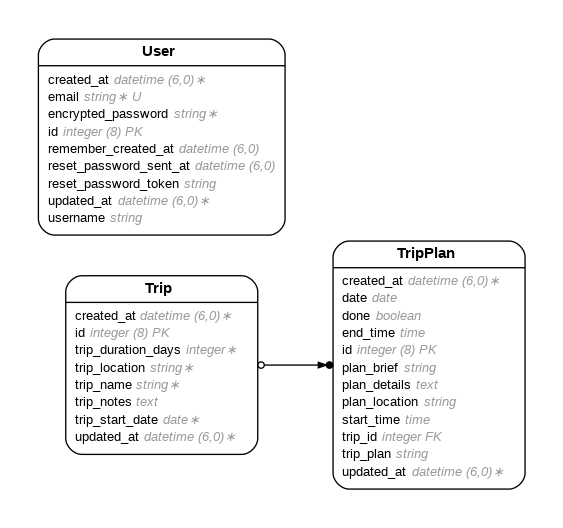
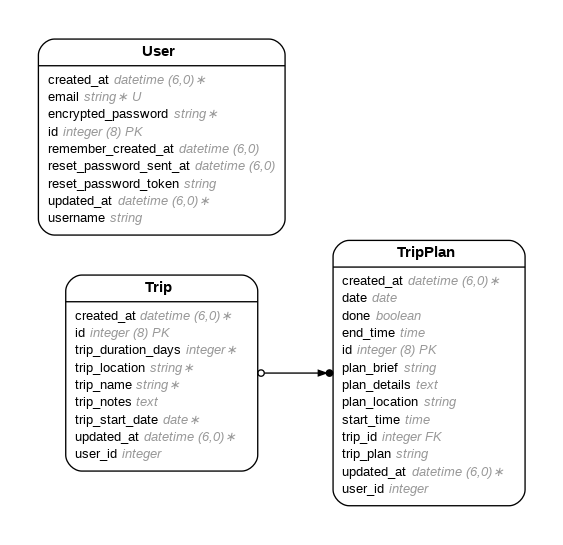
finish

Changed region(s): [[0.0604, 0.0606, 0.5133, 0.4545], [0.4529, 0.4242, 0.9361, 0.9394], [0.0906, 0.4848, 0.4831, 0.8788]]

diff --git a/app/controllers/trips_controller.rb b/app/controllers/trips_controller.rb
@@ -18,18 +18,25 @@ class TripsController < ApplicationController
   # end
 
   def index
-    matching_trips = Trip.all
+    matching_trips = current_user.trips
     @list_of_trips = matching_trips.order({ :created_at => :desc })
 
     render({ :template => "trip_templates/index" })
   end
 
+
+
   def show
     the_id = params.fetch("path_id")
-    matching_trips = Trip.where({ :id => the_id })
+    matching_trips = current_user.trips.where({ :id => the_id })
     @the_trip = matching_trips.at(0)
+    # if @the_trip == nil
+    #   redirect_to("/", { :alert => "Not found" })
+    #   return
+    # end
     render({ :template => "trip_templates/show" })
   end
+
 
   def trip_name_update
     the_id = params.fetch("path_id")
@@ -192,6 +199,7 @@ class TripsController < ApplicationController
 
   def create
     the_trip = Trip.new
+    the_trip.user_id = current_user.id
     the_trip.trip_name = params.fetch("query_trip_name")
     the_trip.trip_location = params.fetch("query_trip_location")
     the_trip.trip_duration_days = params.fetch("query_trip_duration_days")
@@ -296,6 +304,7 @@ class TripsController < ApplicationController
               end_time: Time.parse(item[:end_time]),
               trip_plan: item[:activity],
               plan_brief: item[:plan_brief],
+              user_id:the_trip.user_id,
               plan_location: item[:location],
               plan_details: item[:commute],
             )

diff --git a/config/environments/development.rb b/config/environments/development.rb
@@ -42,13 +42,18 @@ Rails.application.configure do
   config.active_storage.service = :local
 
   # Don't care if the mailer can't send.
-  config.action_mailer.raise_delivery_errors = false
+  # config.action_mailer.raise_delivery_errors = false
 
   # Make template changes take effect immediately.
-  config.action_mailer.perform_caching = false
+  # config.action_mailer.perform_caching = false
 
   # Set localhost to be used by links generated in mailer templates.
-  config.action_mailer.default_url_options = { host: "localhost", port: 3000 }
+  # config.action_mailer.default_url_options = { host: "localhost", port: 3000 }
+
+  config.action_mailer.perform_deliveries = true
+  config.action_mailer.raise_delivery_errors = true
+  config.action_mailer.perform_caching = false
+  config.action_mailer.default_url_options = { host: "localhost", port: 3000}
 
   # Print deprecation notices to the Rails logger.
   config.active_support.deprecation = :log

diff --git a/db/schema.rb b/db/schema.rb
@@ -10,7 +10,7 @@
 #
 # It's strongly recommended that you check this file into your version control system.
 
-ActiveRecord::Schema[8.0].define(version: 2025_12_12_034335) do
+ActiveRecord::Schema[8.0].define(version: 2025_12_12_043940) do
   # These are extensions that must be enabled in order to support this database
   enable_extension "pg_catalog.plpgsql"
 
@@ -168,6 +168,7 @@ ActiveRecord::Schema[8.0].define(version: 2025_12_12_034335) do
     t.datetime "updated_at", null: false
     t.string "plan_brief"
     t.boolean "done"
+    t.integer "user_id"
   end
 
   create_table "trips", force: :cascade do |t|
@@ -178,6 +179,7 @@ ActiveRecord::Schema[8.0].define(version: 2025_12_12_034335) do
     t.datetime "created_at", null: false
     t.datetime "updated_at", null: false
     t.text "trip_notes"
+    t.integer "user_id"
   end
 
   create_table "users", force: :cascade do |t|

diff --git a/app/models/trip.rb b/app/models/trip.rb
@@ -10,9 +10,11 @@
 #  trip_start_date    :date
 #  created_at         :datetime         not null
 #  updated_at         :datetime         not null
+#  user_id            :integer
 #
 class Trip < ApplicationRecord
   has_many  :trip_plans, class_name: "TripPlan", foreign_key: "trip_id", dependent: :destroy
+  belongs_to :user, required: true, class_name: "User", foreign_key: "user_id"
 
 
   validates :trip_duration_days, presence: true, numericality: { only_integer: true, greater_than: 0 }

diff --git a/app/models/trip_plan.rb b/app/models/trip_plan.rb
@@ -14,8 +14,10 @@
 #  created_at    :datetime         not null
 #  updated_at    :datetime         not null
 #  trip_id       :integer
+#  user_id       :integer
 #
 class TripPlan < ApplicationRecord
   belongs_to :trip, required: true, class_name: "Trip", foreign_key: "trip_id"
+  belongs_to :user, required: true, class_name: "User", foreign_key: "user_id"
 
 end

diff --git a/app/models/user.rb b/app/models/user.rb
@@ -22,4 +22,6 @@ class User < ApplicationRecord
   # :confirmable, :lockable, :timeoutable, :trackable and :omniauthable
   devise :database_authenticatable, :registerable,
          :recoverable, :rememberable, :validatable
+  has_many  :trip_plans, class_name: "TripPlan", foreign_key: "user_id"
+  has_many  :trips, class_name: "Trip", foreign_key: "user_id"
 end

diff --git a/config/initializers/devise.rb b/config/initializers/devise.rb
@@ -266,7 +266,7 @@ Devise.setup do |config|
   # config.navigational_formats = ['*/*', :html, :turbo_stream]
 
   # The default HTTP method used to sign out a resource. Default is :delete.
-  config.sign_out_via = :delete
+  config.sign_out_via = :get
 
   # ==> OmniAuth
   # Add a new OmniAuth provider. Check the wiki for more information on setting

diff --git a/app/controllers/application_controller.rb b/app/controllers/application_controller.rb
@@ -1,3 +1,9 @@
 class ApplicationController < ActionController::Base
-  skip_forgery_protection
+  before_action :authenticate_user!
+  # skip_forgery_protection
+
+  def after_sign_in_path_for(resource)
+  root_path
+end
+
 end

diff --git a/db/migrate/20251212043940_add_user_id_to_trip_plans.rb b/db/migrate/20251212043940_add_user_id_to_trip_plans.rb
@@ -1,0 +1,5 @@
+class AddUserIdToTripPlans < ActiveRecord::Migration[8.0]
+  def change
+    add_column :trip_plans, :user_id, :integer
+  end
+end

diff --git a/db/migrate/20251212043935_add_user_id_to_trips.rb b/db/migrate/20251212043935_add_user_id_to_trips.rb
@@ -1,0 +1,5 @@
+class AddUserIdToTrips < ActiveRecord::Migration[8.0]
+  def change
+    add_column :trips, :user_id, :integer
+  end
+end
